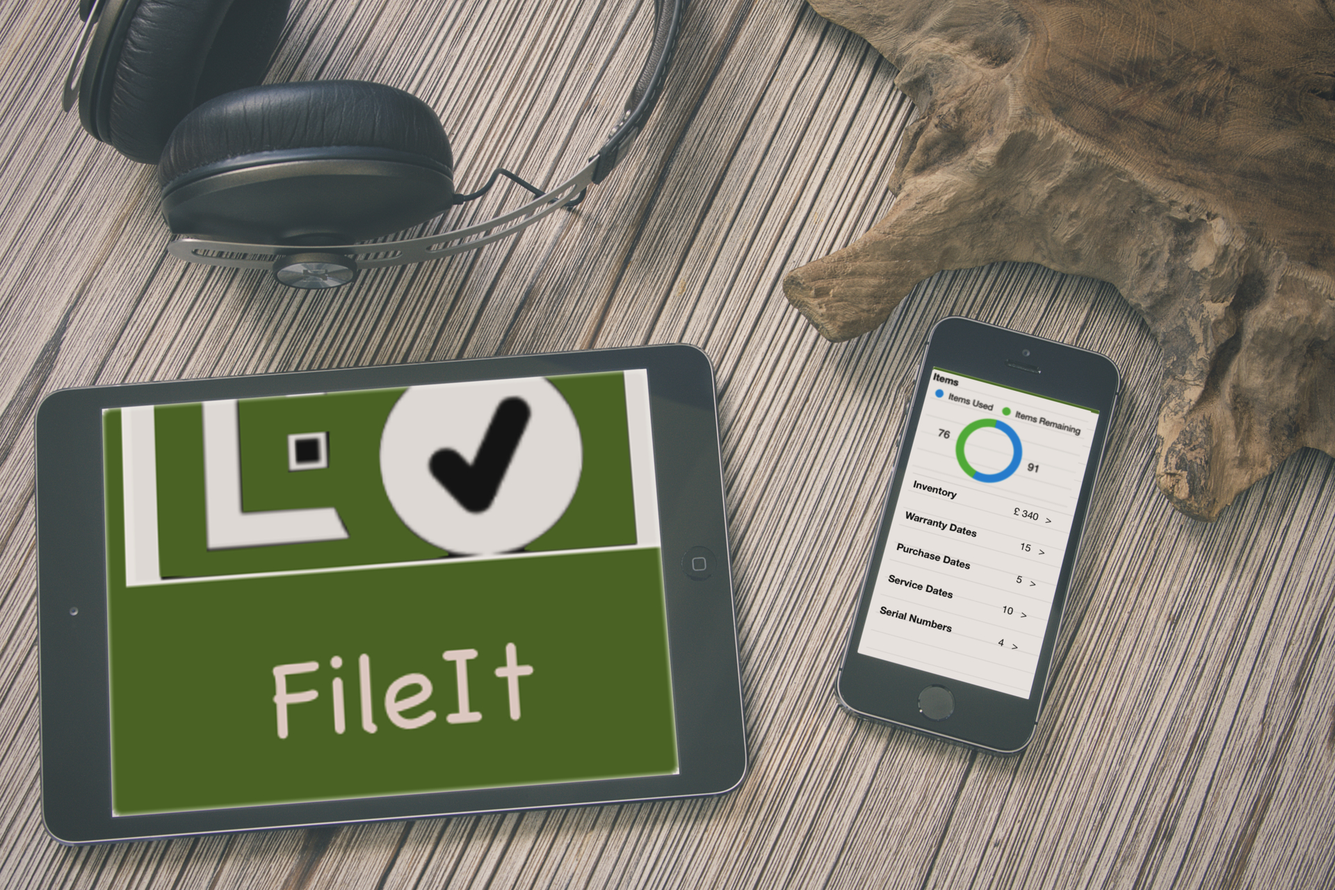
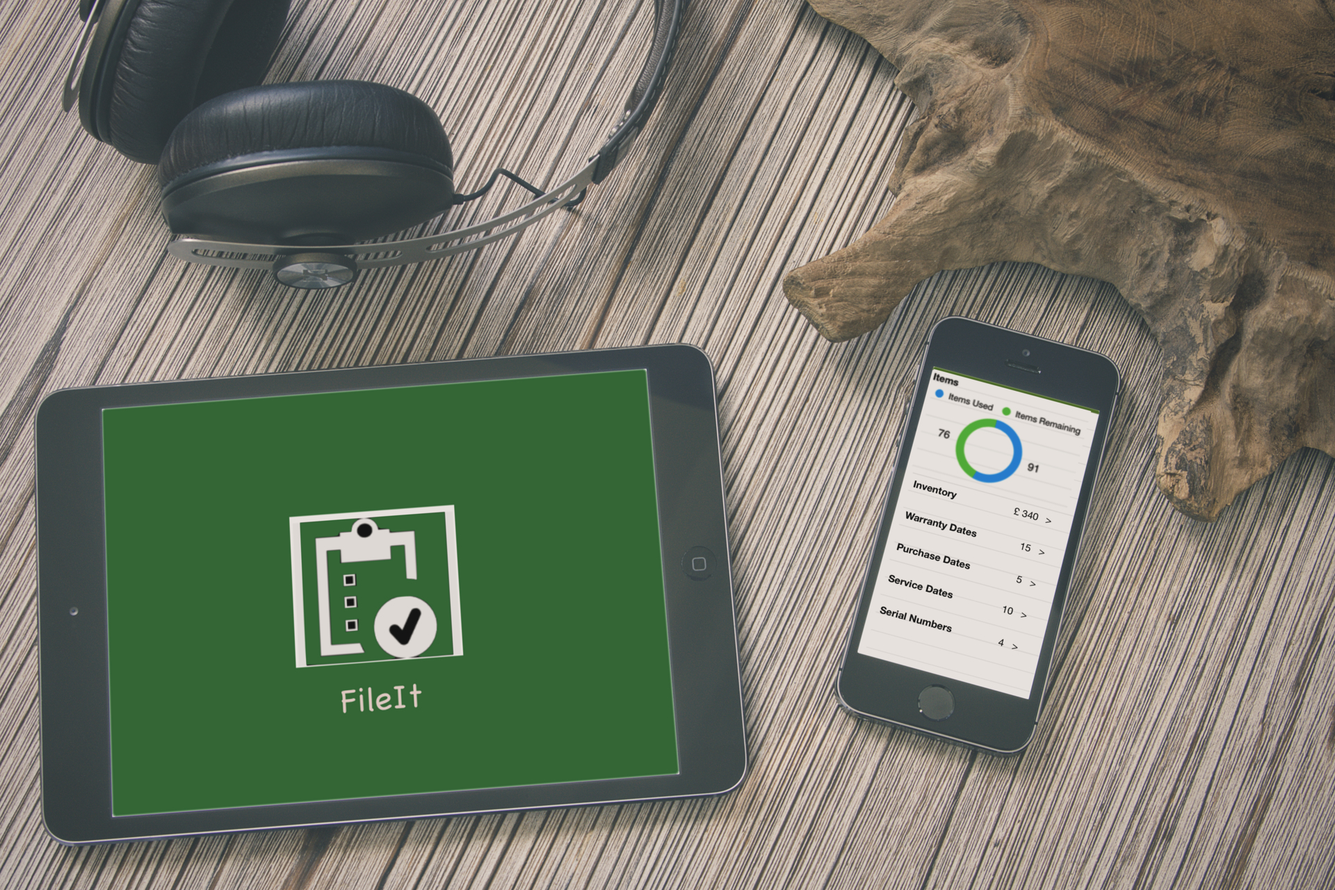
sixth Commit

diff --git a/index.html b/index.html
@@ -96,14 +96,14 @@
           <div class="col-md-6">
             <div class="progress-container progress-primary"><span class="progress-badge">Swift</span>
               <div class="progress">
-                <div class="progress-bar progress-bar-primary" data-aos="progress-full" data-aos-offset="10" data-aos-duration="2000" role="progressbar" aria-valuenow="60" aria-valuemin="0" aria-valuemax="100" style="width: 80%;"></div><span class="progress-value">80%</span>
+                <div class="progress-bar progress-bar-primary" data-aos="progress-full" data-aos-offset="10" data-aos-duration="2000" role="progressbar" aria-valuenow="60" aria-valuemin="0" aria-valuemax="100" style="width: 85%;"></div><span class="progress-value">85%</span>
               </div>
             </div>
           </div>
           <div class="col-md-6">
             <div class="progress-container progress-primary"><span class="progress-badge">Xcode</span>
               <div class="progress">
-                <div class="progress-bar progress-bar-primary" data-aos="progress-full" data-aos-offset="10" data-aos-duration="2000" role="progressbar" aria-valuenow="60" aria-valuemin="0" aria-valuemax="100" style="width: 80%;"></div><span class="progress-value">80%</span>
+                <div class="progress-bar progress-bar-primary" data-aos="progress-full" data-aos-offset="10" data-aos-duration="2000" role="progressbar" aria-valuenow="60" aria-valuemin="0" aria-valuemax="100" style="width: 85%;"></div><span class="progress-value">85%</span>
               </div>
             </div>
           </div>
@@ -165,7 +165,7 @@
               <div class="cc-porfolio-image img-raised" data-aos="fade-up" data-aos-anchor-placement="top-bottom"><a href="#inventory">
                   <figure class="cc-effect"><center><img src="images/project-1h.jpg" alt="Image" <\center>
                     <figcaption>
-                      <div class="h4">FileIT</div>
+                      <div class="h4">FileIt</div>
                       <p>Inventory Management</p>
                     </figcaption>
                   </figure></a></div>
@@ -206,13 +206,13 @@
         <div class="col-md-3 bg-primary" data-aos="fade-right" data-aos-offset="50" data-aos-duration="500">
           <div class="card-body cc-experience-header">
             <p>Inventory Management App</p>
-            <div class="h5">FileIT</div><img src="images/project-1.jpg" alt="Image" class="center"/>
+            <div class="h5">FileIt</div><img src="images/project-1.jpg" alt="Image" class="center"/>
           </div>
         </div>
         <div class="col-md-9" data-aos="fade-left" data-aos-offset="50" data-aos-duration="500">
           <div class="card-body">
-            <div class="h5">Inventory Management App - FileIT</div>
-            <p>I am currently creating an Inventory Management App which will be available on the App Store in June 19. This App will allow you to track inventory to assist with home insurance or moving house.</p>
+            <div class="h5">Inventory Management App - FileIt</div>
+            <p>I am currently developing an Inventory Management App which will be available on the App Store in June 19. This App will allow you to track inventory to assist with home insurance or moving house.</p>
             <p> Technical key features : </p>
             <p> • In App purchases </p>
             <p> • User Authentication (Touch ID, Face ID recognition and passcode entry) </p>
